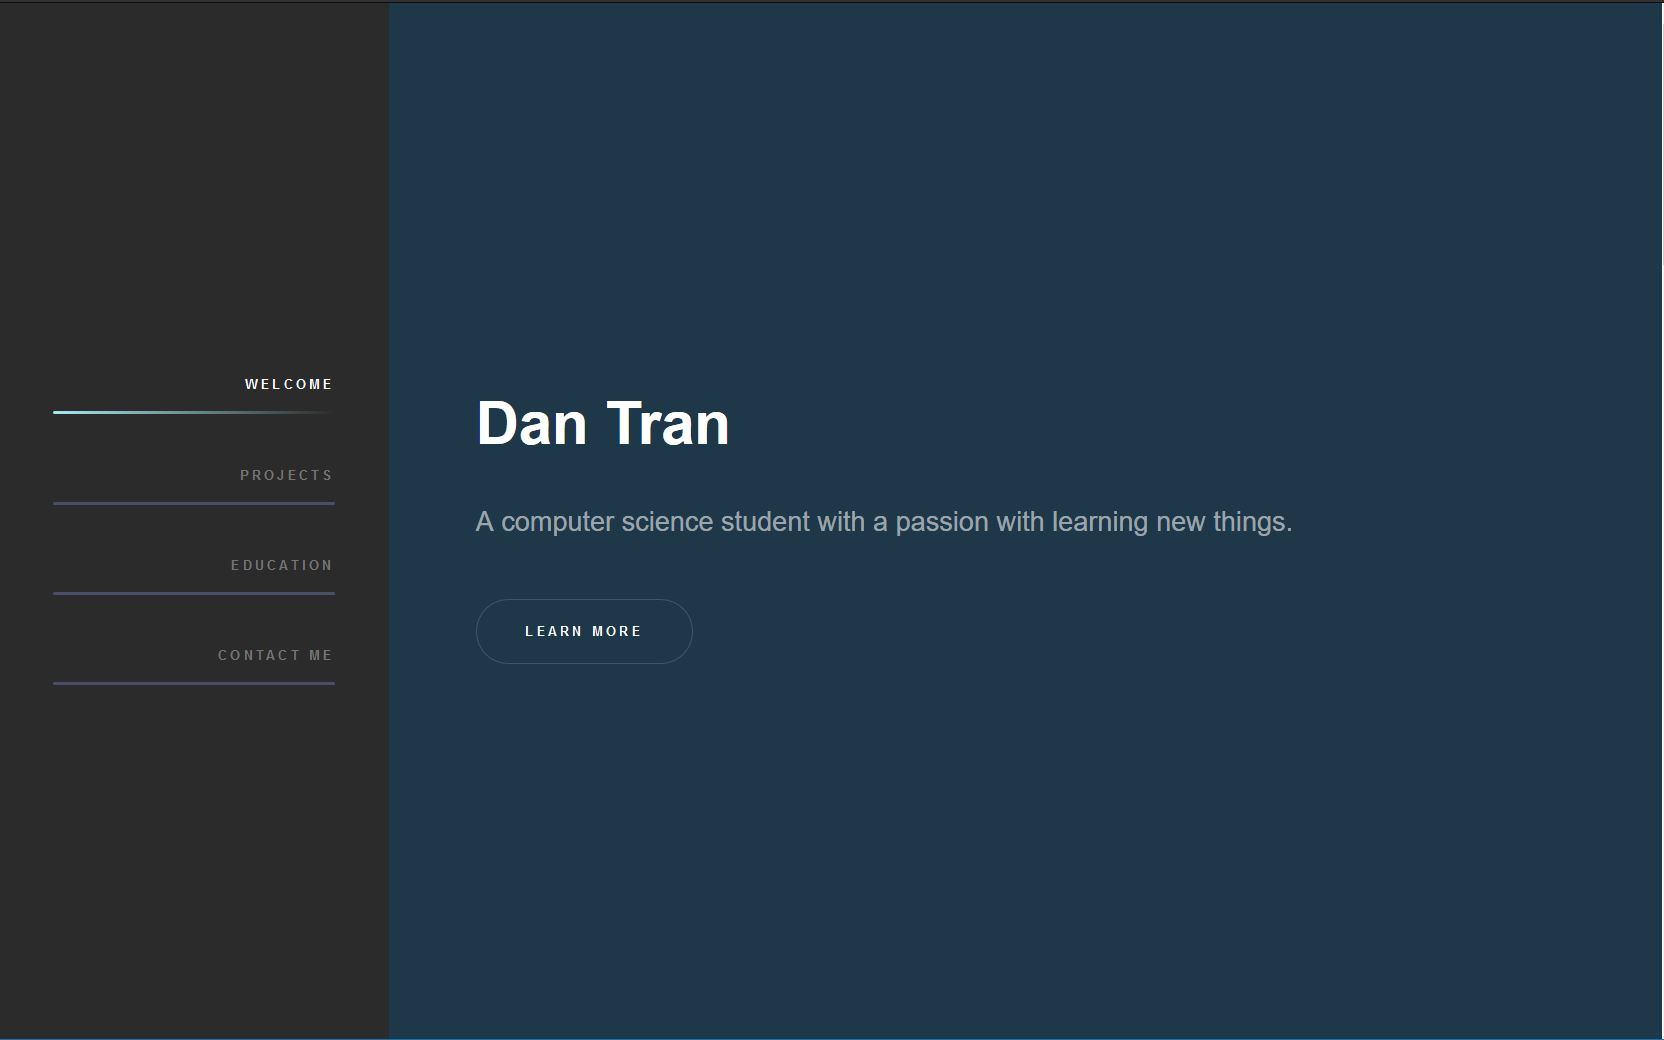
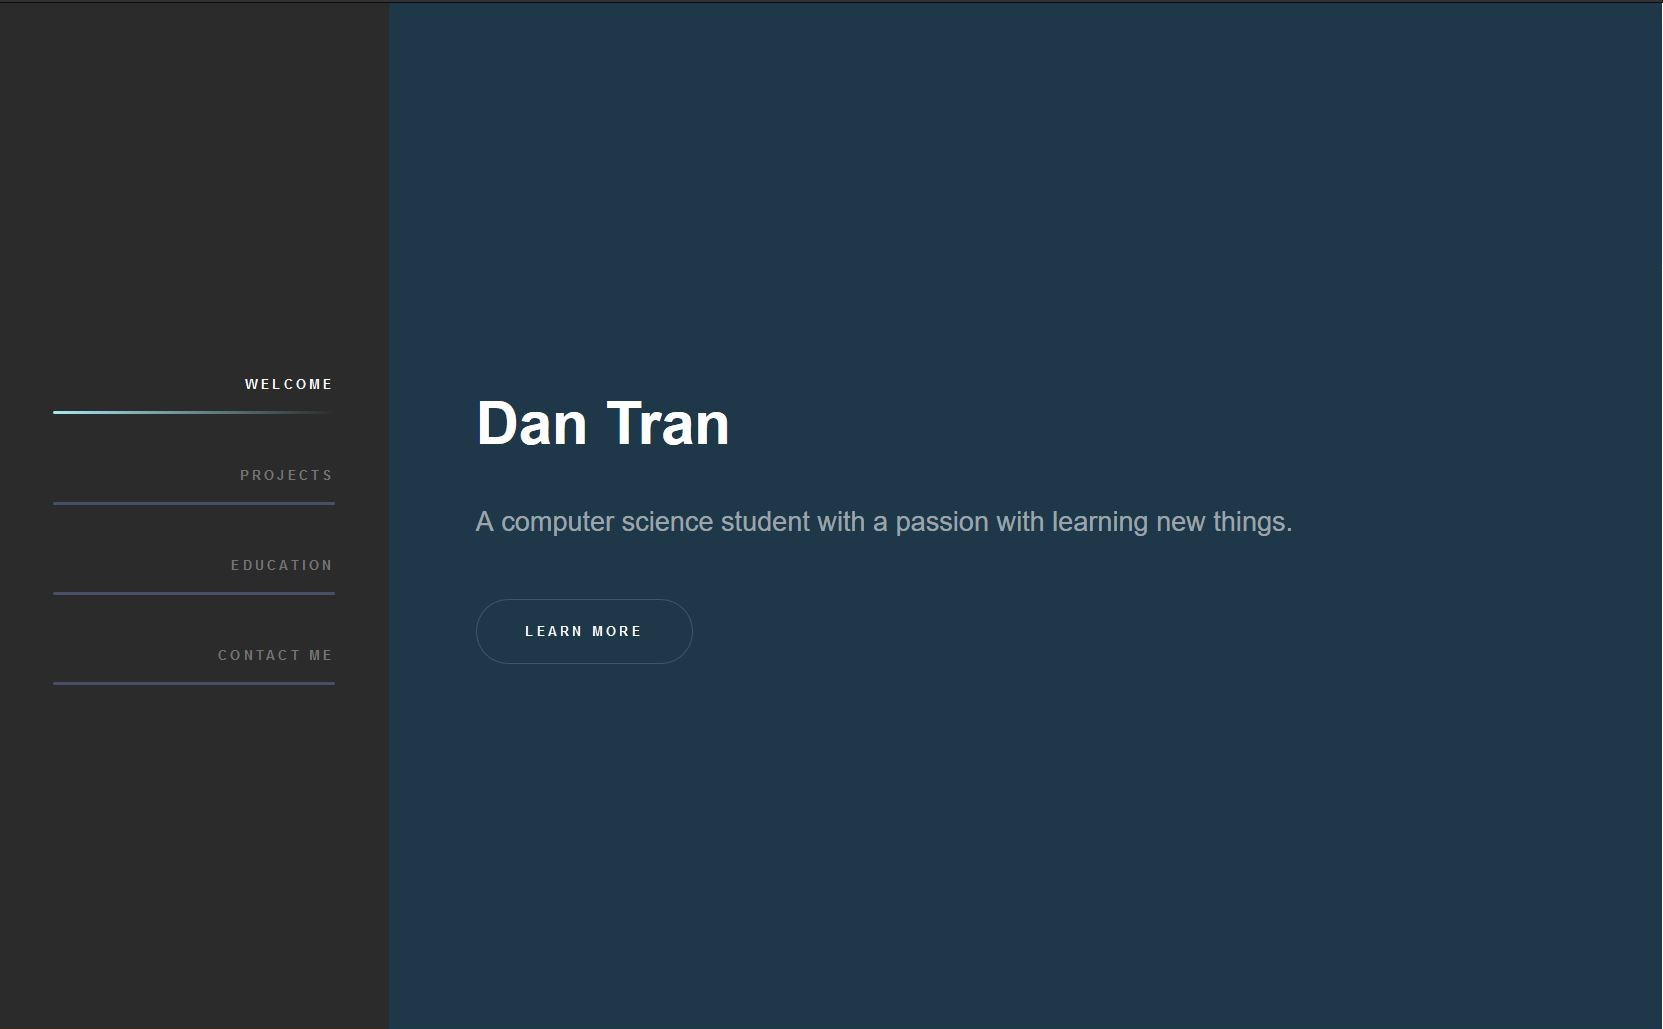
Added Future First Page

diff --git a/index.html b/index.html
@@ -42,7 +42,7 @@
 						</div>
 					</section>
 
-					<h3></h3>
+					<h4></h4>
 				<!-- One -->
 					<section id="one" class="wrapper style2 spotlights">
 						<section>
@@ -52,7 +52,7 @@
 									<h2>Future First</h2>
 									<p>Created the front end to an Android application.</p>
 									<ul class="actions">
-										<li><a href="generic.html" class="button">Learn more</a></li>
+										<li><a href="FutureFirst.html" class="button">Learn more</a></li>
 									</ul>
 								</div>
 							</div>
@@ -64,7 +64,7 @@
 									<h2>Into the Void</h2>
 									<p>A 2-D astroid like video game. Coded in C++ using OPENGL</p>
 									<ul class="actions">
-										<li><a href="generic.html" class="button">Learn more</a></li>
+										<li><a class="button">Learn more</a></li>
 									</ul>
 								</div>
 							</div>
@@ -80,12 +80,12 @@
 						</section>
 					</section>
 
-					<h3></h3>
+					<h4></h4>
 				<!-- Two -->
 					<section id="two" class="wrapper style3 fade-up">
 						<div class="inner">
 							<h2>Education</h2>
-							<p>Currently an undergraduate student at <b>University of California Merced</b> majoring in Computer Science and Engineering.</p>
+							<p>Currently an undergraduate student at, <b>University of California, Merced</b> majoring in Computer Science and Engineering.</p>
 							<div class="features">
 								<section>
 									<span class="icon major fa-graduation-cap"></span>
@@ -125,16 +125,16 @@
 						</div>
 					</section>
 
-					<h3></h3>
+					<h4></h4>
 				<!-- Three -->
 					<section id="three" class="wrapper style1 fade-up">
 						<div class="inner">
 								<section>
-										<h3>Contact me :)</h3>
+										<h3>Feel free to contact me.</h3>
 										<ul class="icons">
-											<li><a href="https://github.com/gateauxd" class="fa-github"><span class="label">GitHub</span></a></li>
+											<li><a href="https://github.com/gateauxd" target ="_blank" class="fa-github"><span class="label">GitHub</span></a></li>
 											<li><a href="mailto:dantran2016@gmail.com" class="fa-envelope"><span class="label">Email</span></a></li>
-											<li><a href="https://www.linkedin.com/in/dan-tran-553b89160/" class="fa-linkedin"><span class="label">LinkedIn</span></a></li>
+											<li><a href="https://www.linkedin.com/in/dan-tran-553b89160/" target ="_blank" class="fa-linkedin"><span class="label">LinkedIn</span></a></li>
 										</ul>
 							</section>
 						</div>

diff --git a/FutureFirst.html b/FutureFirst.html
@@ -1,0 +1,67 @@
+<!DOCTYPE HTML>
+<!--
+	Hyperspace by HTML5 UP
+	html5up.net | @ajlkn
+	Free for personal and commercial use under the CCA 3.0 license (html5up.net/license)
+-->
+<html>
+	<head>
+		<title>Generic - Hyperspace by HTML5 UP</title>
+		<meta charset="utf-8" />
+		<meta name="viewport" content="width=device-width, initial-scale=1, user-scalable=no" />
+		<link rel="stylesheet" href="assets/css/main.css" />
+		<noscript><link rel="stylesheet" href="assets/css/noscript.css" /></noscript>
+	</head>
+	<body class="is-preload">
+
+		<!-- Header -->
+			<header id="header">
+				<a href="index.html" class="title">Dan Tran</a>
+				<nav>
+					<ul>
+						<li><a href="index.html">Home</a></li>
+						<li><a href="FutureFirst.html" class="active">FutureFirst</a></li>
+					</ul>
+				</nav>
+			</header>
+
+		<!-- Wrapper -->
+			<div id="wrapper">
+				<section>
+					<div class="box alt">
+						<div class="row gtr-uniform">
+							<div class="col-2"><span class="image fit"><img src="images/futurefirst01.jpg" alt="" /></span></div>
+							<div class="col-2"><span class="image fit"><img src="images/futurefirst02.jpg" alt="" /></span></div>
+							<div class="col-2"><span class="image fit"><img src="images/futurefirst03.jpg" alt="" /></span></div>
+				</section>
+
+				<!-- Main -->
+					<section id="main" class="wrapper">
+						<div class="inner">
+							<h1 class="major">Future First</h1>
+							<h3>Code Snippet</h3>
+						</div>
+					</section>
+
+			</div>
+
+		<!-- Footer -->
+			<footer id="footer" class="wrapper alt">
+				<div class="inner">
+					<ul class="menu">
+						<li>&copy; Dan Tran. All rights reserved.</li><li>Design: <a href="http://html5up.net">HTML5 UP</a></li>
+					</ul>
+				</div>
+			</footer>
+
+		<!-- Scripts -->
+			<script src="assets/js/jquery.min.js"></script>
+			<script src="assets/js/jquery.scrollex.min.js"></script>
+			<script src="assets/js/jquery.scrolly.min.js"></script>
+			<script src="assets/js/browser.min.js"></script>
+			<script src="assets/js/breakpoints.min.js"></script>
+			<script src="assets/js/util.js"></script>
+			<script src="assets/js/main.js"></script>
+
+	</body>
+</html>

diff --git a/assets/css/main.css b/assets/css/main.css
@@ -98,7 +98,7 @@ a
 	}
 
 	body {
-		background: #ffffff;
+		background: #21313d;
 	}
 
 		body.is-preload *, body.is-preload *:before, body.is-preload *:after {
@@ -197,10 +197,10 @@ a
 		}
 
 			h1.major:after {
-				background-image: -moz-linear-gradient(to right, #5e42a6, #b74e91);
-				background-image: -webkit-linear-gradient(to right, #5e42a6, #b74e91);
-				background-image: -ms-linear-gradient(to right, #5e42a6, #b74e91);
-				background-image: linear-gradient(to right, #5e42a6, #b74e91);
+				background-image: -moz-linear-gradient(to right, #00CED1, #002448);
+				background-image: -webkit-linear-gradient(to right, #00CED1, #002448);
+				background-image: -ms-linear-gradient(to right, #00CED1, #002448);
+				background-image: linear-gradient(to right, #00CED1, #002448);
 				-moz-transition: max-width 0.2s ease;
 				-webkit-transition: max-width 0.2s ease;
 				-ms-transition: max-width 0.2s ease;
@@ -381,6 +381,7 @@ a
 		}
 
 		.row > .col-2 {
+			margin-top: 2%;
 			width: 16.6666666667%;
 		}
 
@@ -389,6 +390,7 @@ a
 		}
 
 		.row > .col-3 {
+			margin-top: 2%;
 			width: 25%;
 		}
 
@@ -528,8 +530,10 @@ a
 				padding: 0 0 0 1.5em;
 			}
 
+			/*Future First Pictures */
 			.row.gtr-uniform {
 				margin-top: -1.5em;
+				justify-content: center;
 			}
 
 				.row.gtr-uniform > * {
@@ -2574,7 +2578,7 @@ a
 
 		.image.fit {
 			display: block;
-			margin: 0 0 2em 0;
+			margin: 0 0 1em 0;
 			width: 100%;
 		}
 
@@ -3192,7 +3196,7 @@ a
 	}
 
 		.wrapper > .inner {
-			padding: 5em 5em 3em 5em ;
+			padding: 5em 5em 3em 5em;
 			max-width: 100%;
 			width: 75em;
 		}
@@ -3221,8 +3225,9 @@ a
 
 			}
 
+		/*Generic Footer*/
 		.wrapper.alt {
-			background-color: #a2eaf2;
+			background-color: #060408;
 		}
 
 		/*Header*/
@@ -3499,7 +3504,7 @@ a
 
 	#footer > .inner .menu {
 		font-size: 0.8em;
-		color: #7d877d;
+		color: #ffffff;
 	}
 
 	#header + #wrapper + #footer > .inner {
